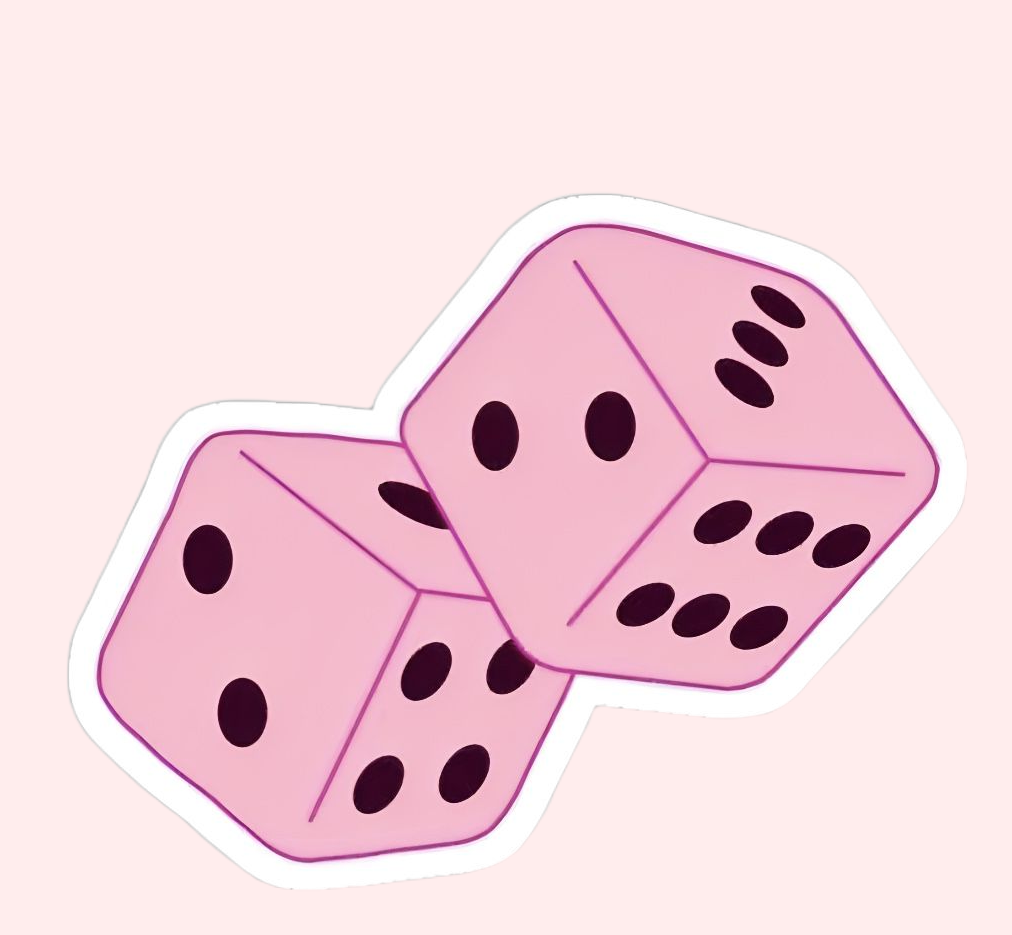
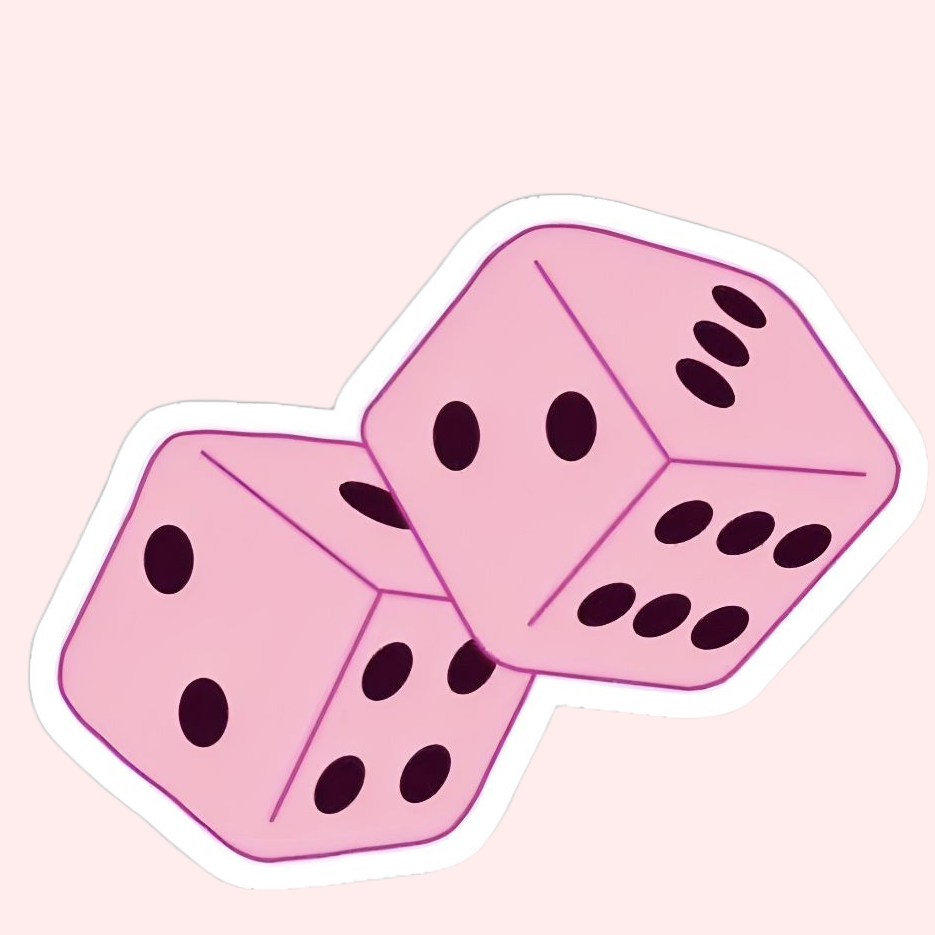
update

diff --git a/src/app/signup/page.tsx b/src/app/signup/page.tsx
@@ -44,7 +44,7 @@ export default function SignupPage() {
           options: {
             emailRedirectTo:
               typeof window !== "undefined"
-                ? `${window.location.origin}/`
+                ? `${window.location.origin}/login`
                 : undefined,
           },
         });
